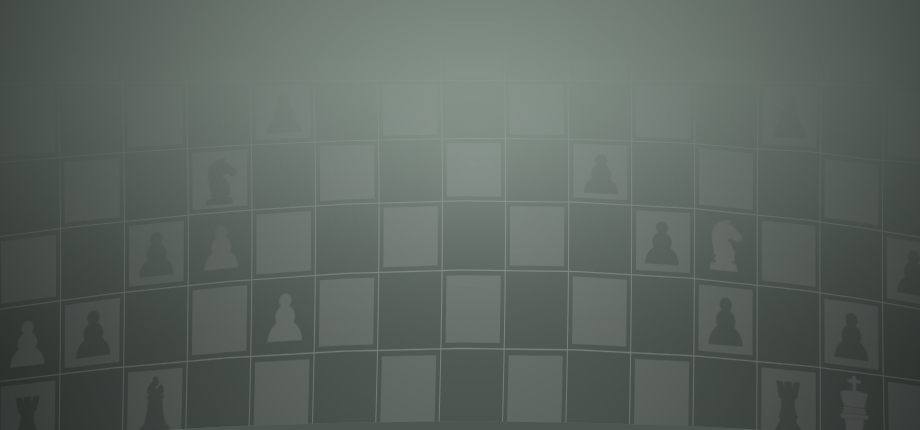
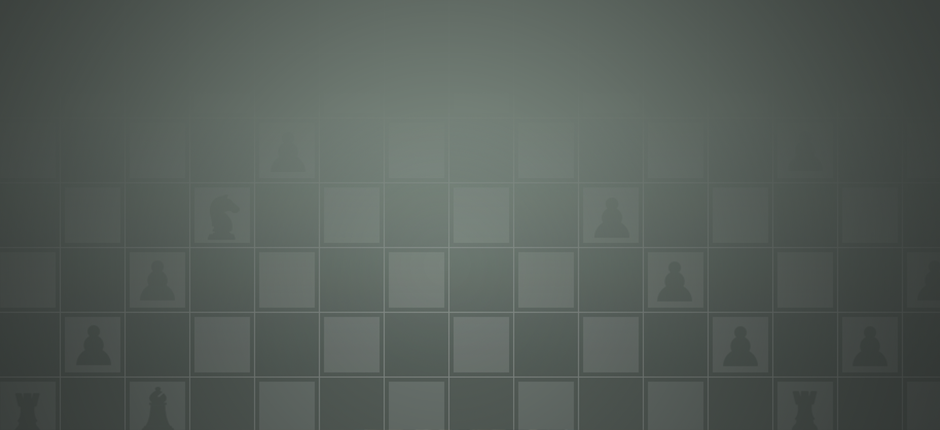
More small improvements

diff --git a/src/src/pages/master-of-chess/tasks/index.tsx b/src/src/pages/master-of-chess/tasks/index.tsx
@@ -5,11 +5,13 @@ import { FiAlignLeft, FiLink } from "react-icons/fi";
 import { DataType, Table } from "ka-table";
 import { EditingMode, SortingMode } from "ka-table/enums";
 import CustomEditor, { RowValueChange } from "./custom-editor";
-import {useLocation} from '@docusaurus/router';
+import { useLocation } from "@docusaurus/router";
 
 const CustomAttributesDemo: React.FC = () => {
   const location = useLocation();
-  const selectedRow = location.search.includes("row") ? parseInt(location.search.substring(5)) : 0;
+  const selectedRow = location.search.includes("row")
+    ? parseInt(location.search.substring(5))
+    : 0;
   const [data, setData] = useState<Array<GameTask>>([]);
   const [isEditMode, setIsEditMode] = useState(false);
   const [password, setPassword] = useState("");
@@ -20,10 +22,10 @@ const CustomAttributesDemo: React.FC = () => {
 
   useEffect(() => {
     const filteredTasks = data?.filter((task) => {
-      if (completed && task.status.includes('Completed')) {
+      if (completed && task.status.includes("Completed")) {
         return true;
       }
-      if (inProgress && task.status.includes('Progress')) {
+      if (inProgress && task.status.includes("Progress")) {
         return true;
       }
       if (open && task.status.includes("Open")) {
@@ -34,7 +36,7 @@ const CustomAttributesDemo: React.FC = () => {
 
     // Update tasksToShow state
     setTasksToShow(filteredTasks ?? []);
-  }, [completed, inProgress, open, data])
+  }, [completed, inProgress, open, data]);
 
   useEffect(() => {
     const fetchData = async () => {
@@ -44,7 +46,7 @@ const CustomAttributesDemo: React.FC = () => {
         );
         const res = await response.json();
         setData(res ?? []);
-        setOpen(true)
+        setOpen(true);
       } catch (error) {
         console.error("Error:", error);
       }
@@ -93,7 +95,7 @@ const CustomAttributesDemo: React.FC = () => {
   };
 
   const MasterOfChessBannerUrl =
-    require("@site/static/img/master_of_chess/master_of_chess_banner.jpg").default;
+    require("@site/static/img/master_of_chess/banner.png").default;
 
   return (
     <div className={styles.centralAlign}>
@@ -103,17 +105,29 @@ const CustomAttributesDemo: React.FC = () => {
         All bugs, suggestions and features from community end up here.
         <div className={styles.checkboxContainer}>
           <label>
-            <input type="checkbox" checked={completed} onChange={e => setCompleted(e.target.checked)} />
+            <input
+              type="checkbox"
+              checked={completed}
+              onChange={(e) => setCompleted(e.target.checked)}
+            />
             Completed
           </label>
           <br />
           <label>
-            <input type="checkbox" checked={inProgress} onChange={e => setInProgress(e.target.checked)} />
+            <input
+              type="checkbox"
+              checked={inProgress}
+              onChange={(e) => setInProgress(e.target.checked)}
+            />
             In Progress
           </label>
           <br />
           <label>
-            <input type="checkbox" checked={open} onChange={e => setOpen(e.target.checked)} />
+            <input
+              type="checkbox"
+              checked={open}
+              onChange={(e) => setOpen(e.target.checked)}
+            />
             Open
           </label>
         </div>
@@ -131,8 +145,9 @@ const CustomAttributesDemo: React.FC = () => {
                   setData((d) =>
                     d.concat([
                       {
-                        rowKey: `${Math.max(...d.map((obj) => parseInt(obj.rowKey))) + 1
-                          }`,
+                        rowKey: `${
+                          Math.max(...d.map((obj) => parseInt(obj.rowKey))) + 1
+                        }`,
                         partitionKey: "preview",
                         title: "Bug",
                         comments: "",
@@ -155,7 +170,16 @@ const CustomAttributesDemo: React.FC = () => {
         )}
       </div>
       {!data?.length ? (
-        <div style={{ padding: "32px", fontWeight: 800, left: "50%", textAlign: "center" }}>Loading ... </div>
+        <div
+          style={{
+            padding: "32px",
+            fontWeight: 800,
+            left: "50%",
+            textAlign: "center",
+          }}
+        >
+          Loading ...{" "}
+        </div>
       ) : (
         <div className={styles.kaTable}>
           <Table
@@ -175,11 +199,19 @@ const CustomAttributesDemo: React.FC = () => {
                 return <DescriptionButton value={value} />;
               }
               if (column.key == "rowKey") {
-                return <button className={styles.button} onClick={() => {
-                  navigator.clipboard.writeText(window.location.href.split("?")[0] + "?row=" + value);
-                  alert("Link copied!");
-                }
-                }><FiLink size={"22px"} /></button>;
+                return (
+                  <button
+                    className={styles.button}
+                    onClick={() => {
+                      navigator.clipboard.writeText(
+                        window.location.href.split("?")[0] + "?row=" + value
+                      );
+                      alert("Link copied!");
+                    }}
+                  >
+                    <FiLink size={"22px"} />
+                  </button>
+                );
               }
             }}
             paging={{
@@ -200,15 +232,16 @@ const CustomAttributesDemo: React.FC = () => {
                 elementAttributes: ({ rowData, rowKeyField }) => ({
                   style: {
                     fontWeight: rowData.priority == "High" ? 600 : 400,
-                    borderColor: rowData.rowKey == selectedRow ?  "red" : "#54413a",
+                    borderColor:
+                      rowData.rowKey == selectedRow ? "red" : "#54413a",
                     backgroundColor:
                       rowData.status == "Completed"
                         ? "#e0ffd4"
                         : rowData.priority == "High"
-                          ? "#c7b6a2"
-                          : rowData.priority == "Medium"
-                            ? "#edede3"
-                            : "#d1deb2",
+                        ? "#c7b6a2"
+                        : rowData.priority == "Medium"
+                        ? "#edede3"
+                        : "#d1deb2",
                   },
                   title: `${rowData.name}: ${rowData.score}`,
                 }),
@@ -279,11 +312,7 @@ const DescriptionButton: React.FC<any> = ({ value, rowKey }) => {
           <div className={styles.modalContent}>
             <div className={styles.modalText}>{value}</div>
             <div style={{ width: "100%" }}>
-              <button
-                onClick={() => setIsOpened(false)}
-              >
-                Close
-              </button>
+              <button onClick={() => setIsOpened(false)}>Close</button>
             </div>
           </div>
         </div>
@@ -294,8 +323,8 @@ const DescriptionButton: React.FC<any> = ({ value, rowKey }) => {
 
 const columns = [
   {
-    key: 'rowKey',
-    title: 'Copy Link',
+    key: "rowKey",
+    title: "Copy Link",
     dataType: DataType.String,
   },
   {
@@ -340,4 +369,4 @@ const columns = [
     dataType: DataType.Date,
     filterRowOperator: "<",
   },
-]
+];

diff --git a/src/src/pages/master-of-chess/index.tsx b/src/src/pages/master-of-chess/index.tsx
@@ -3,7 +3,7 @@ import styles from "./master-of-chess.module.css";
 
 export default function Home(): JSX.Element {
   const MasterOfChessBannerUrl =
-    require("@site/static/img/master_of_chess/master_of_chess_banner.jpg").default;
+    require("@site/static/img/master_of_chess/banner.png").default;
   const MasterOfChessSmallBannerUrl =
     require("@site/static/img/master_of_chess/small_capsule.png").default;
   const MasterOfChessIconUrl =
@@ -173,6 +173,13 @@ export default function Home(): JSX.Element {
             <img
               style={{ margin: "auto" }}
               src={require("@site/static/img/master_of_chess/bg.png").default}
+              alt="background"
+            ></img>
+            <img
+              style={{ margin: "auto" }}
+              src={
+                require("@site/static/img/master_of_chess/banner.png").default
+              }
               alt="background"
             ></img>
           </div>

diff --git a/src/src/pages/master-of-chess/docs/index.tsx b/src/src/pages/master-of-chess/docs/index.tsx
@@ -3,7 +3,7 @@ import styles from "../master-of-chess.module.css";
 
 export default function Home(): JSX.Element {
   const MasterOfChessBannerUrl =
-    require("@site/static/img/master_of_chess/master_of_chess_banner.jpg").default;
+    require("@site/static/img/master_of_chess/banner.png").default;
 
   const BRANEIconUrl = require("@site/static/img/BRANE.png").default;
   return (
